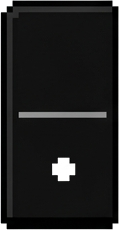
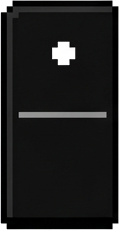
games update

Changed region(s): [[0.4286, 0.1522, 0.6555, 0.3043], [0.4286, 0.6696, 0.6555, 0.7913]]

diff --git a/example/kytschi/css/triple_triad.css b/example/kytschi/css/triple_triad.css
@@ -1,3 +1,7 @@
+:root {
+    --card-width: 108px;
+    --card-height: 139px;
+}
 html, body {
     padding: 0px;
     margin: 0;
@@ -28,7 +32,7 @@ body {
     flex-direction: column;
     justify-content: center;
     align-items: center;
-    margin-top: 40px;
+    margin-top: 20px;
 }
 
 #board {
@@ -58,23 +62,35 @@ body {
     flex-flow: row wrap;
     align-items: flex-start; 
 }
+.row.spacer {
+    align-items: baseline;
+}
+.row.center {
+    justify-content: center;
+}
 
 .player-ui {
+    flex: 1;
     display: flex;
     flex-direction: column;
     align-items: center;
-    justify-content: center;
-    width: 128px;
 }
 .player-ui img {
     width: 100px;
+}
+.player-ui .winner {
+    position: absolute;
+    margin-top: 75px;
+    margin-left: 100px;
+    width: 54px;
+    display: none;
 }
 .player-ui span {
     display: block;
     border: 3px solid #3E135A;
     background-color: #fff;
     padding: 10px;
-    width: 100%;
+    width: calc(100% - 30px);
     text-align: center;
 }
 .player-ui span::first-letter {
@@ -98,16 +114,16 @@ body {
 #computer-hand, #player-hand {
     display: flex;
     flex-direction: column;
-    width: 128px;
+    width: var(--card-width);
 }
 
 .card {
     display: block;
     background-image: url("../imgs/triple_triad/cards/placeholder.jpg");
-    background-size: 128px 165px;
+    background-size: 100%;
     background-repeat: no-repeat;
-    width: 128px;
-    height: 165px;
+    width: var(--card-width);
+    height: var(--card-height);
     cursor: pointer;
 }
 
@@ -116,17 +132,12 @@ body {
 }
 
 .card img {
-    width: 128px;
+    width: 100%;
 }
 
 .row.spacer .card {
     background: none;
 }
-
-.level .card {
-    height: 215px;
-}
-
 .card.computer, .computer span {
     background: none;
     background-color:#3654B6 !important;

diff --git a/example/kytschi/css/5and3s.css b/example/kytschi/css/5and3s.css
@@ -1,6 +1,6 @@
 :root {
-    --card-width: 64px;
-    --card-width-rotate: 128px;
+    --card-width: 58px;
+    --card-width-rotate: 116px;
 }
 html, body {
     padding: 0;
@@ -12,8 +12,6 @@ html, body {
 
 body {
     display: flex;
-    justify-content: center;
-    align-items: center;
     min-height: 100vh;
     background-image: url("../imgs/cards/bk.jpg");
     background-position: center center;
@@ -23,8 +21,8 @@ body {
 #fiveandthrees {
     display: flex;
     flex-direction: column;
-    justify-content: center;
     width: 100%;
+    padding-top: 50px;
 }
 
 #fiveandthrees #board, #fiveandthrees #player {
@@ -35,22 +33,21 @@ body {
 }
 
 #fiveandthrees #deck {
-    padding-top: 50px;
-    height: 523px;
+    width: 1099px;
+    min-height: 523px;
     background-image: url("../imgs/cards/table.png");
     background-position: center center;
     background-repeat: no-repeat;
+    align-items: center;
     display: flex;
     flex-direction: column;
     gap: 10px;
-    flex: 0 0 1099px;
-    align-items: center;
-    justify-content: center;
 }
-#fiveandthrees #deck #cards {
+#fiveandthrees #deck #dominoes {
     display: flex;
     align-items: center;
     justify-content: center;
+    width: 900px;
     height: 320px;
 }
 #fiveandthrees #deck #controls {
@@ -88,7 +85,7 @@ body {
 
 #fiveandthrees #scoreboard {
     position: absolute;
-    top: 10px;
+    bottom: 10px;
     left: 10px;
     display: block;
     width: 327px;
@@ -134,7 +131,12 @@ body {
 }
 #fiveandthrees #scoreboard .player-img img {
     margin: 0;
+    width: 100%;
 }
+#fiveandthrees #scoreboard .player-name::first-letter {
+    text-transform: uppercase;
+}
+
 #fiveandthrees #scoreboard table tbody tr:nth-child(odd) {
     background-color: #292444;
     padding: 0;
@@ -422,6 +424,7 @@ body {
 #fiveandthrees #dominoes-right,
 #fiveandthrees #dominoes-right .dominoes {
     display: flex;
+    flex-wrap: wrap;
 }
 #fiveandthrees #dominoes-left .dominoes {
     flex-direction: row-reverse;